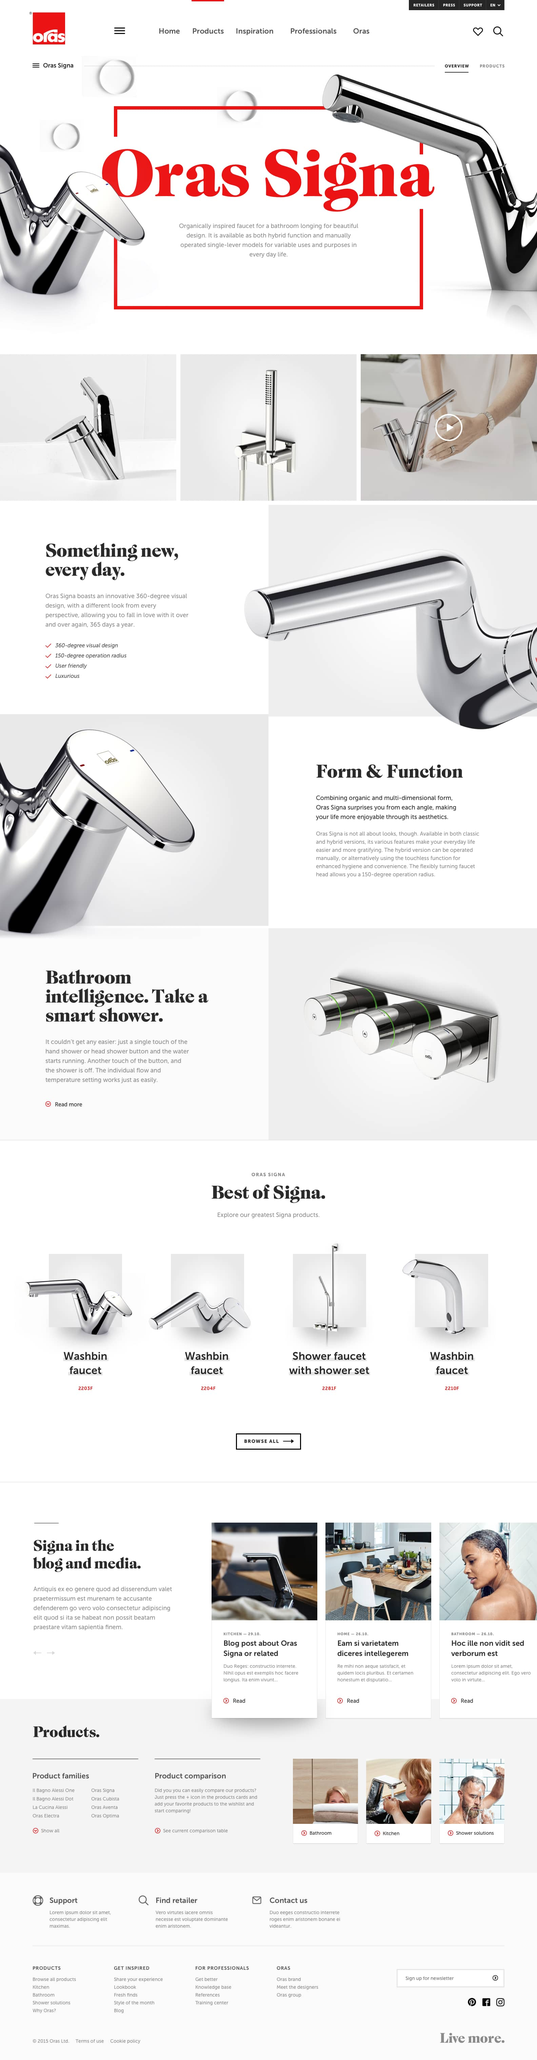
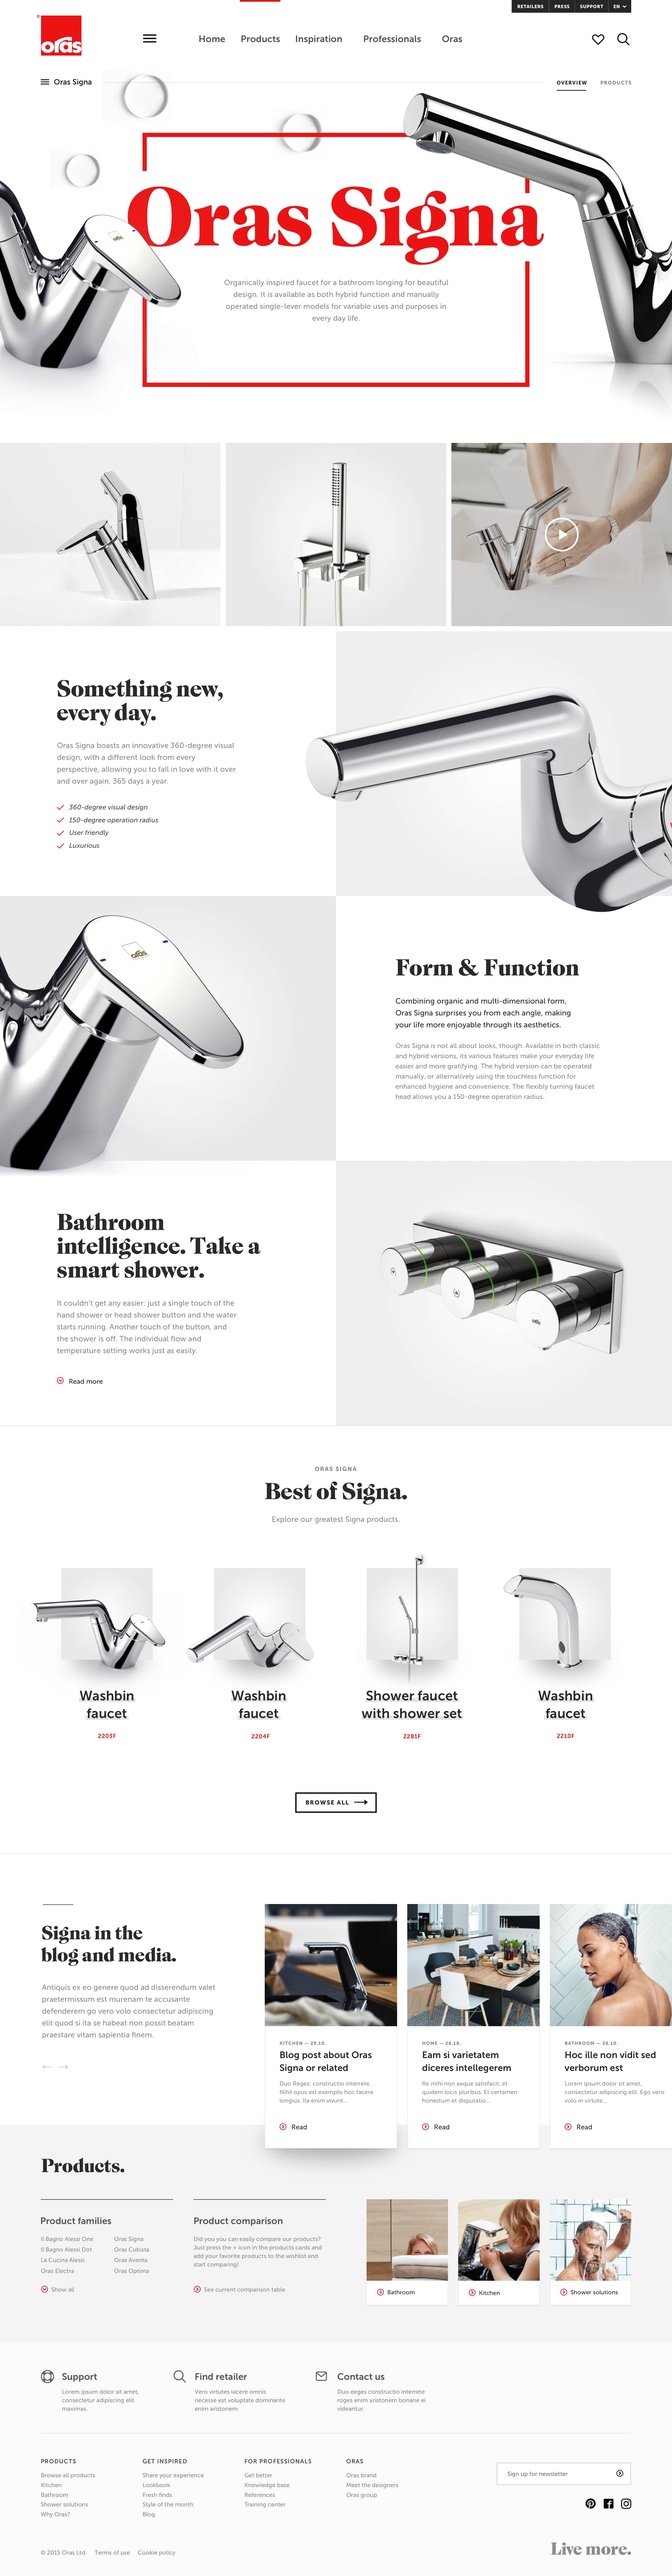
Set proper image sizes and qualities

diff --git a/pages/oras.js b/pages/oras.js
@@ -21,21 +21,19 @@ const oras = getSitemap('oras');
 export default function Oras() {
   return (
     <Template name={oras.id} title={oras.title}>
-      <OrasHero />
+      <OrasHero priority={true} />
       <Info
         client={{ name: oras.title, href: 'https://oras.com' }}
         employer={{ name: 'Mediasignal', href: 'https://mediasignal.fi/en' }}
         heading="Oras is a significant developer, manufacturer and marketer of kitchen and bathroom faucets. Each technical detail in the products is designed to promote the efficient use of water and energy. We we're asked to create an extensive web service solution for Europe’s leading faucet manufacturer."
         smallPrint="Made together with wonderful people at Mediasignal and Hasan & Partners."
         text={
-          <>
-            <p>
-              After several iterations the Oras brand was modernised entirely in
-              connection with the web service overhaul. The web service was used
-              to create a bold and distinct image of Oras and to strongly
-              highlight the brand’s new promise.
-            </p>
-          </>
+          <p>
+            After several iterations the Oras brand was modernised entirely in
+            connection with the web service overhaul. The web service was used
+            to create a bold and distinct image of Oras and to strongly
+            highlight the brand’s new promise.
+          </p>
         }
         role={['UI/UX design', 'Web development', 'Concept strategy']}
         year="2016"
@@ -65,17 +63,19 @@ export default function Oras() {
         </div>
       </section>
       <section className="Template-section -bg:gradient-10-50-10">
-        <div className="grid">
-          <div className="grid-col grid-col:8 -start:3">
+        <div className="grid wrap">
+          <div className="grid-col grid-col:10 -start:2">
             <Figure
               alt="Oras product family"
-              height={6072}
+              height={7590}
               id="oras-product-family"
-              placeholderColor={50}
+              placeholderColor={10}
               scrolling={false}
               transition="fade"
               src="/assets/oras/joonassandell-oras-product-family.jpg"
-              width={1584}
+              width={1980}
+              sizes={`${mq.l} 80vw, 100vw`}
+              quality={90}
             />
           </div>
         </div>
@@ -102,76 +102,82 @@ export default function Oras() {
         </div>
       </section>
       <section className="Template-section -bg:gradient-10-50-10 paddingBottom-0">
-        <div className="wrap grid">
-          <div className="grid-col grid-col:7 -end">
+        <div className="wrap grid -size:l">
+          <div className="grid-col grid-col:8@m -end">
             <Figure
               alt="Oras kitchen experience"
-              height={6338}
+              height={7923}
               id="oras-ux-kitchen"
               placeholderColor={10}
               scrolling={false}
               transition="fade"
               src="/assets/oras/joonassandell-oras-ux-kitchen.jpg"
-              width={1584}
+              width={1980}
+              sizes={`${mq.m} 80vw, 100vw`}
             />
           </div>
         </div>
       </section>
       <section className="Template-section paddingBottom-0">
         <div className="wrap grid -size:l">
-          <div className="grid-col grid-col:7">
+          <div className="grid-col grid-col:7@m">
             <Figure
               alt="Oras homepage hero"
-              height={1200}
+              height={1499}
               id="oras-homepage"
               scrollSpeed={0.5}
               src="/assets/oras/joonassandell-oras-home-hero.jpg"
-              width={1584}
+              width={1980}
+              sizes={`${mq.m} 70vw, 100vw`}
             />
           </div>
-          <div className="grid-col grid-col:4 -start:9 -align:end">
+          <div className="grid-col grid-col:9 -start:4 grid-col:4@m -start:9@m -align:end">
             <Figure
               alt="Oras live more page hero"
-              height={890}
+              height={1113}
               id="oras-live-more"
               scrollSpeed={-scrollSpeed}
               transition="fade"
               src="/assets/oras/joonassandell-oras-live-more-hero.jpg"
-              width={1584}
+              width={1980}
+              sizes={`${mq.m} 33vw, 80vw`}
             />
           </div>
-          <div className="grid-col grid-col:8 -start:4">
+          <div className="grid-col grid-col:9 grid-col:8@m -start:4@m">
             <Figure
               alt="Oras look book cta"
-              height={1368}
+              height={1710}
               id="oras-look-booked"
               scrolling={false}
               src="/assets/oras/joonassandell-oras-look-booked.jpg"
-              width={1584}
+              width={1980}
+              sizes={`${mq.m} 80vw, 100vw`}
             />
           </div>
         </div>
       </section>
       <section className="Template-section -bg:gradient-10-50-10">
-        <div className="wra grid">
-          <div className="grid-col grid-col:7">
+        <div className="wrap grid -size:l">
+          <div className="grid-col grid-col:8@m">
             <Figure
-              alt="Oras single product"
-              height={4824}
+              alt="Oras single product page"
+              height={6030}
               id="oras-product-single"
               placeholderColor={10}
               scrolling={false}
               transition="fade"
               src="/assets/oras/joonassandell-oras-product-single.jpg"
-              width={1584}
+              width={1980}
+              sizes={`${mq.m} 80vw, 100vw`}
             />
           </div>
-          <div className="grid-col grid-col:4 -start:9 -align:center">
+          <div className="grid-col grid-col:6 -start:7 grid-col:4@m -start:9@m -align:center">
             <Figure
               alt="Oras man showering"
               id="oras-man-2"
               mask={true}
               src="/assets/oras/joonassandell-oras-man.jpg"
+              sizes={`${mq.m} 50vw, 33vw`}
             />
           </div>
         </div>

diff --git a/containers/Oras/OrasHero.js b/containers/Oras/OrasHero.js
@@ -5,7 +5,12 @@ import {
   useMotionValue,
   useTransform,
 } from 'framer-motion';
-import { scrollSpeed, transPrimary, transSecondary } from '../../lib/config';
+import {
+  mq,
+  scrollSpeed,
+  transPrimary,
+  transSecondary,
+} from '../../lib/config';
 import { getSitemap } from '../../lib/utility';
 import { ButtonEnter } from '../../components/Button';
 
@@ -22,6 +27,7 @@ export default function OrasHero({
   animationState = 'initial', // preAnimation, initial
   id,
   onClick,
+  priority = false,
 }) {
   const router = useRouter();
   const headingDisplay = useAnimation();
@@ -93,6 +99,8 @@ export default function OrasHero({
                 onClick={onClick}
                 src="/assets/oras/joonassandell-oras-hero.png"
                 width={2192}
+                sizes="33vw"
+                {...(priority && { priority: true })}
               />
             </figure>
             <motion.div

diff --git a/components/Figure/Figure.js b/components/Figure/Figure.js
@@ -57,6 +57,7 @@ const Figure = ({
   transition,
   src,
   width,
+  quality,
 }) => {
   const classes = c(className, 'Figure', {
     '-mask': mask,
@@ -77,12 +78,16 @@ const Figure = ({
       : null,
     width: width ? width : size === '3:4' ? 1440 : size === '1:1' ? 1440 : null,
   };
+
+  /**
+   * 1. This means default, which starts the move in transition a bit earlier
+   */
   const offset =
     scrollOffset || scrollOffset === 0
       ? scrollOffset
       : mask
       ? '-20%'
-      : !mask && transition != 'fade'
+      : !mask && transition != 'fade' // [1.]
       ? '15%'
       : null;
 
@@ -143,6 +148,7 @@ const Figure = ({
                   setImageIsLoaded(true);
                 }
               }}
+              quality={quality}
               {...imageSize}
             />
           )}

diff --git a/containers/Oras/_Template--oras.scss b/containers/Oras/_Template--oras.scss
@@ -3,11 +3,11 @@
    * Fix weird pixel on top in the video
    */
   .Template-videoBathroom {
-    .Image-figure {
+    .Figure-figure {
       overflow: hidden;
     }
 
-    .Image-video {
+    .Figure-video {
       position: relative;
       top: -2px;
     }
